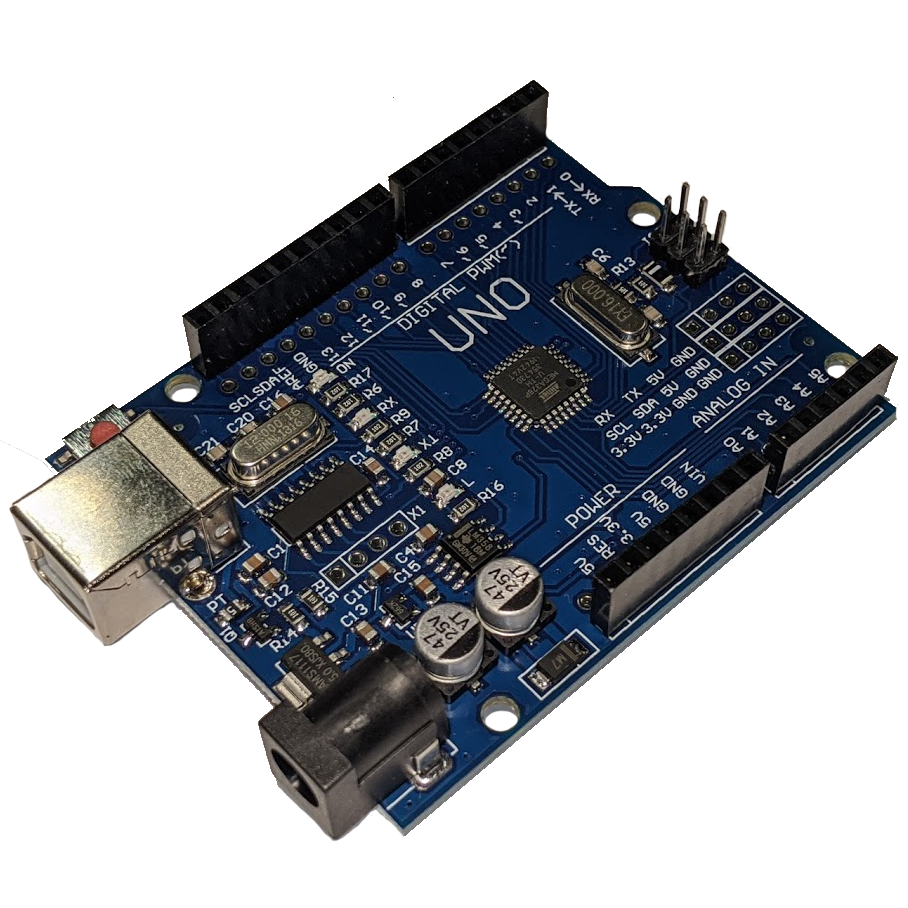
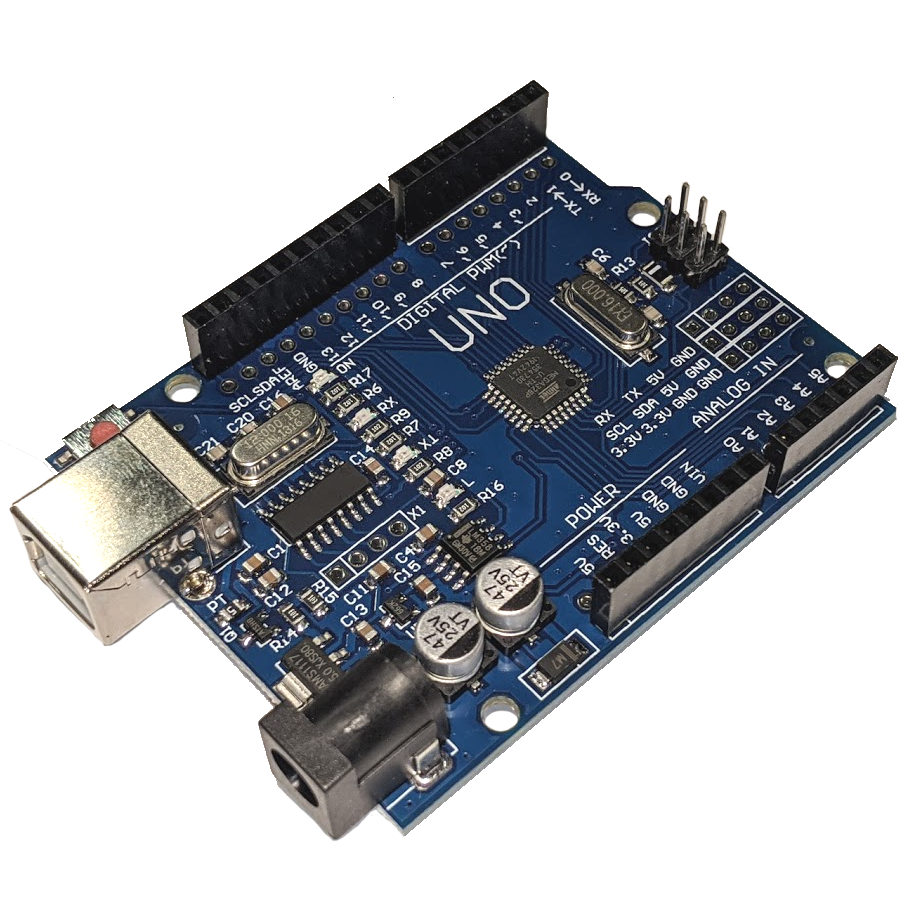
Updated some images and added Chip0 page

diff --git a/products/chip0/index.html b/products/chip0/index.html
@@ -1,0 +1,20 @@
+<!DOCTYPE html>
+<html>
+<head>
+	<meta charset="UTF-8">
+	<meta name="viewport" content="width=device-width, initial-scale=1, maximum-scale=1.0">
+	<link rel="stylesheet" href="/css/style.css">
+	<link rel="stylesheet" href="/css/materialize.min.css">
+	<link href="https://fonts.googleapis.com/icon?family=Material+Icons" rel="stylesheet">
+	<title>Alfredo Electronics</title>
+</head>
+
+<body>
+	<script src="https://ajax.googleapis.com/ajax/libs/jquery/2.2.4/jquery.min.js"></script>
+	<script type="text/javascript" src="/js/materialize.min.js"></script>
+	<script type="text/javascript" src="https://cdnjs.cloudflare.com/ajax/libs/jsrender/1.0.5/jsrender.min.js"></script>
+	<script type="text/javascript" src="/templates/navbar.js"></script>
+	<script type="text/javascript" src="/products/products.js"></script>
+	<script type="text/javascript" src="/templates/product-page.js"></script>
+</body>
+</html>

diff --git a/products/products.js b/products/products.js
@@ -71,7 +71,7 @@ let products = [
     {
         name: "9V Battery Barrel Jack Cable",
         link: "9v-barrel-jack",
-        image: "battleblue-2.jpg",
+        image: "9v-barrel-jack-1.png",
         price: "TBD",
         blurb: `Just snap your 9V battery into this and connect the barrel jack end into your desired board. It’s as simple as that!`
     },
@@ -127,5 +127,12 @@ let products = [
         image: "battleblue-2.jpg",
         price: "TBD",
         blurb: `Tiny foam power cell units for MiniFRC.`
+    },
+    {
+        name: "Chip0",
+        link: "chip0",
+        image: "chip0-1.png",
+        price: "TBD",
+        blurb: `The Chip0 (affectionately pronounced "chippo") robustly connects a BT06 Bluetooth module to an Adafruit motor shield v1.`
     }
 ]
